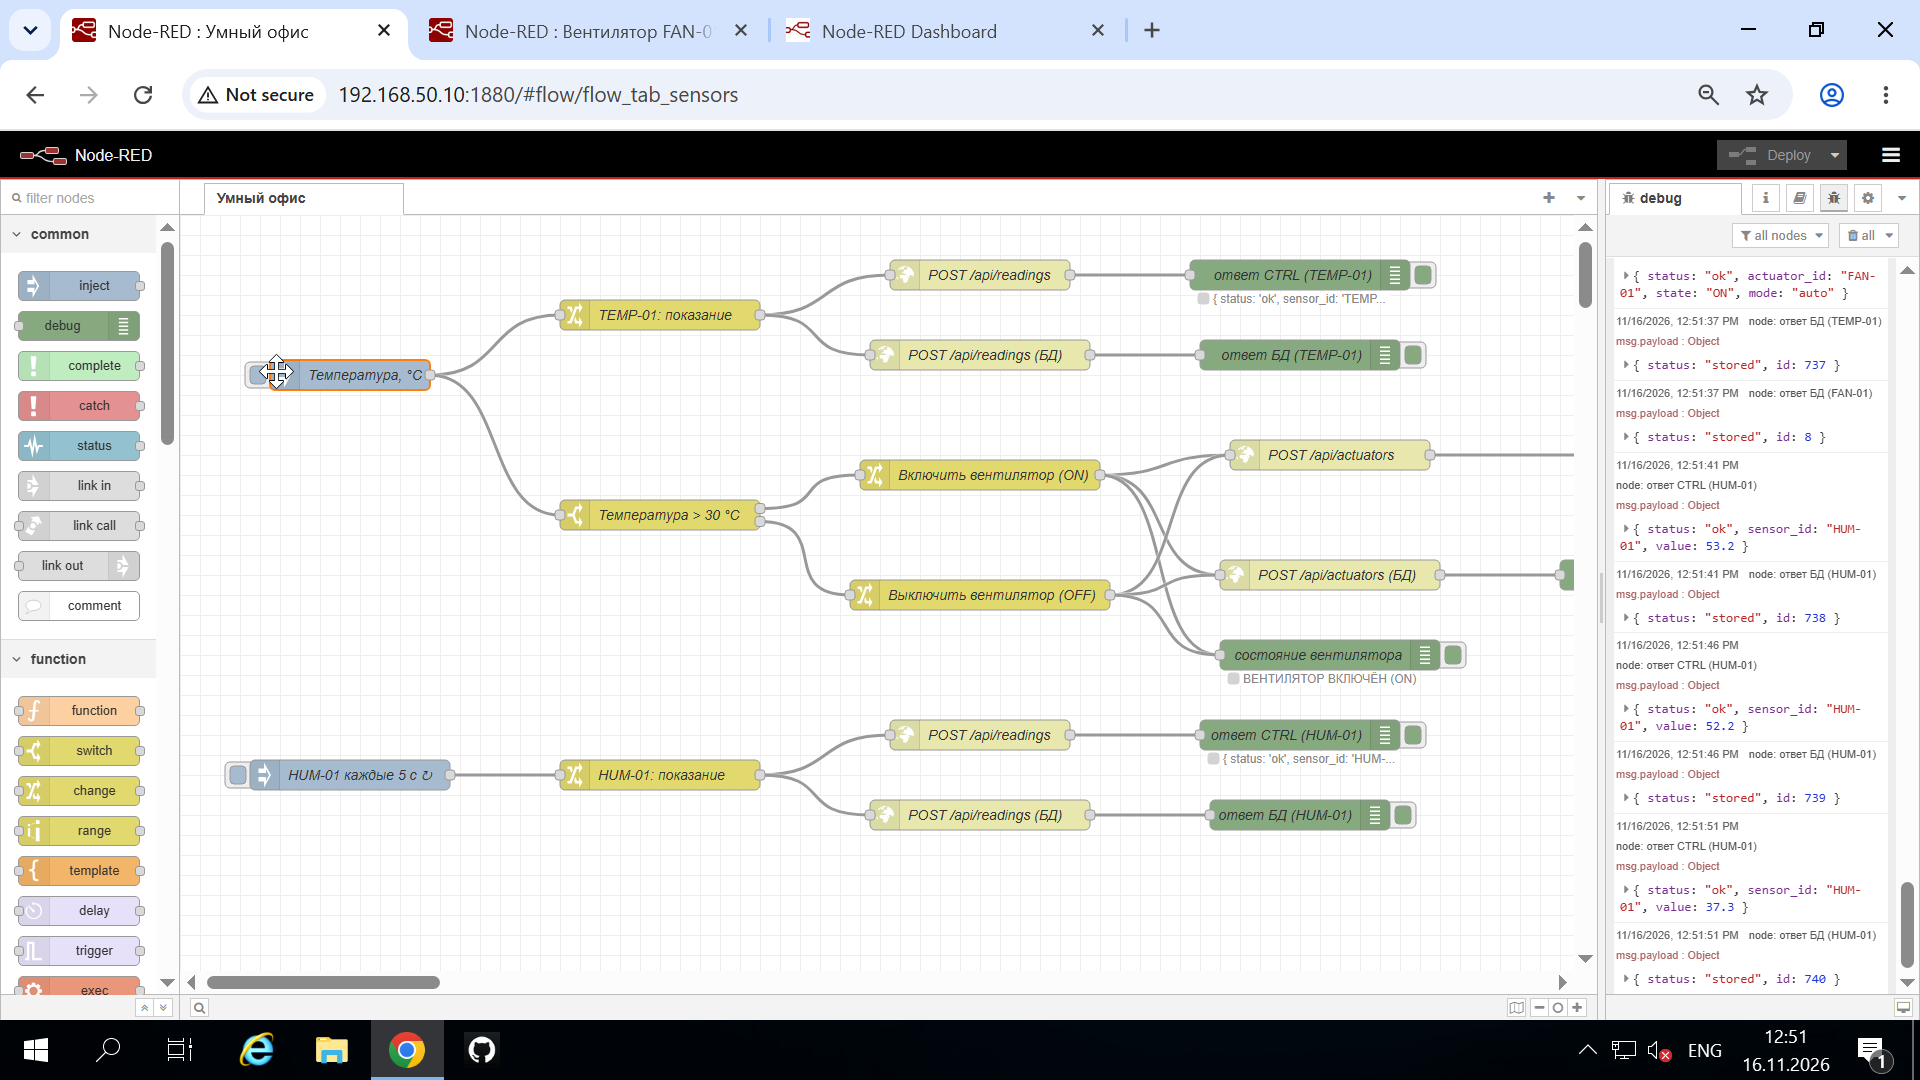
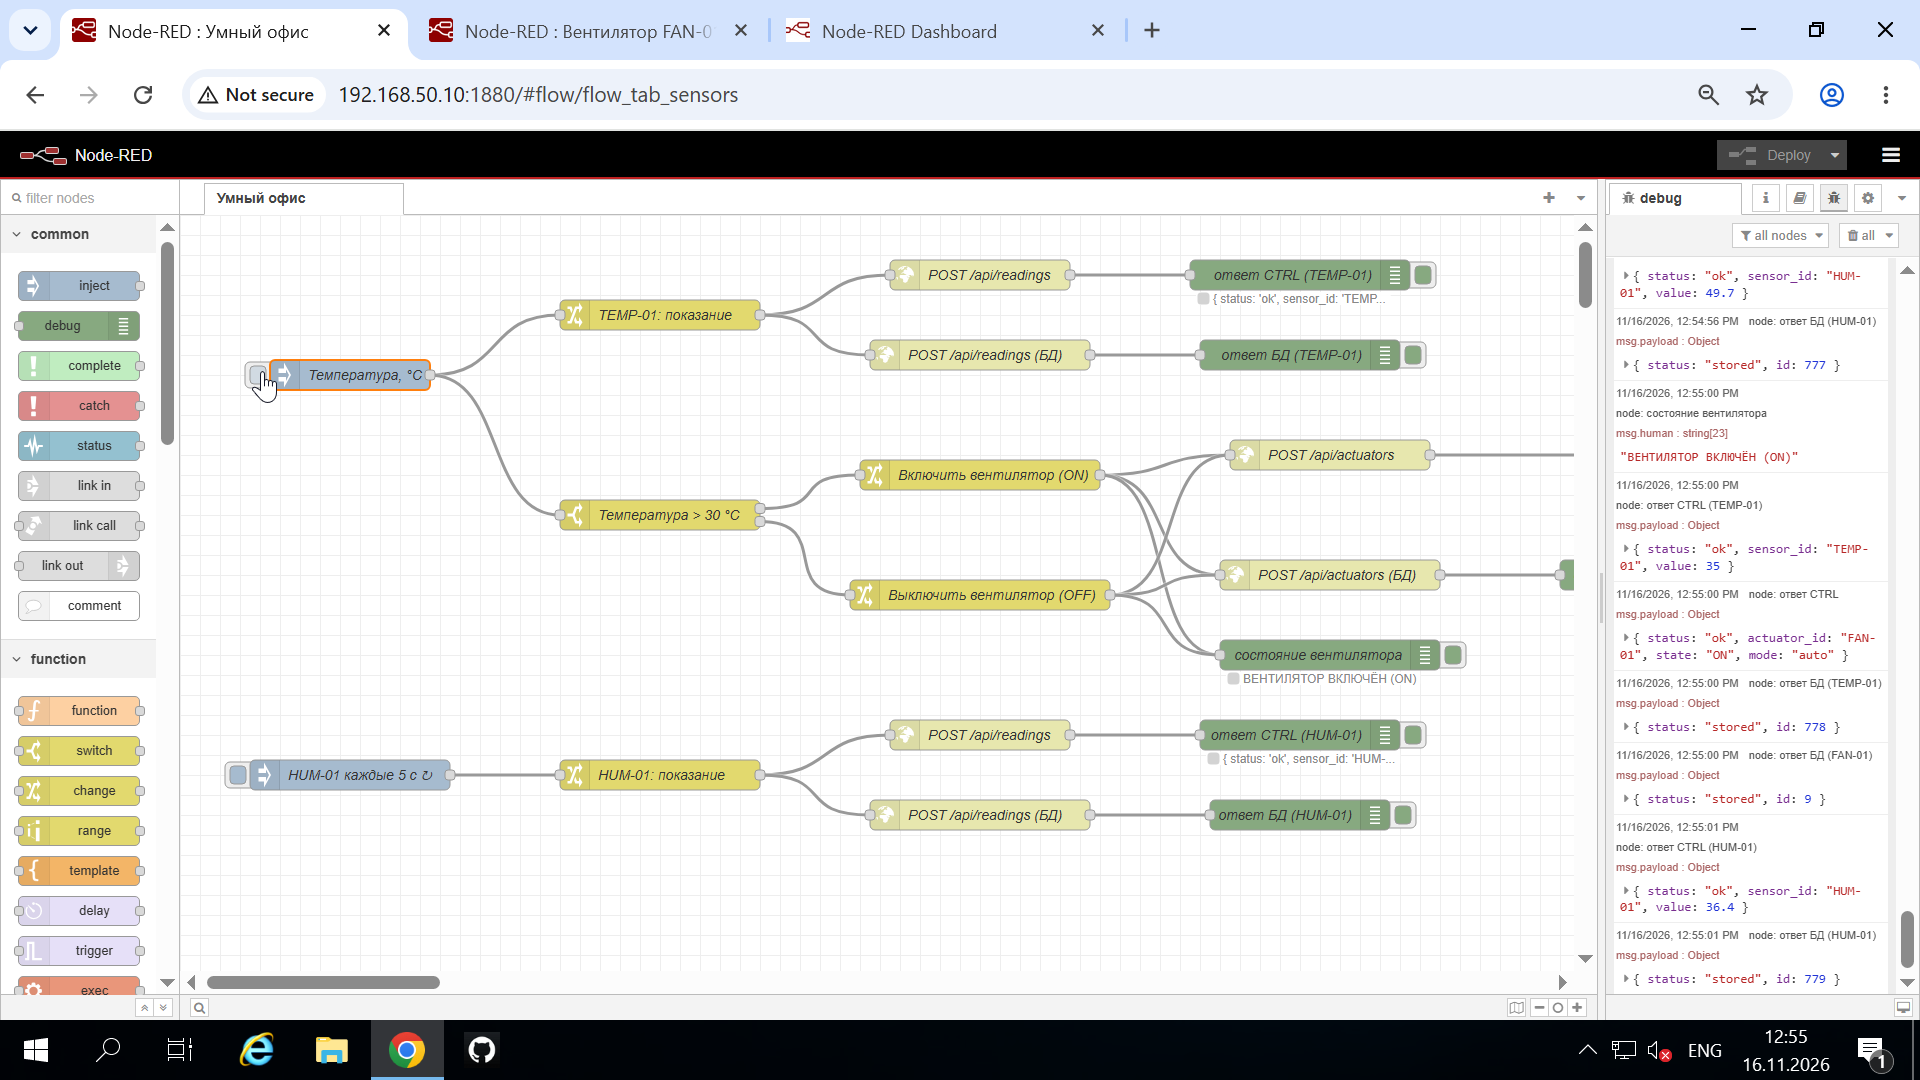
Доказательства ручного ввода температуры

diff --git a/journal.md b/journal.md
@@ -1,4 +1,4 @@
-# Журнал работ
+# Журнал работ
 
 ## 09.11.2026 (отчёт №1)
 
@@ -105,7 +105,7 @@
   с узлами `change` ON/OFF. Влажность HUM-01 осталась автоматической (каждые 5 с), чтобы в базе
   был непрерывный поток для графика.
 - **Как проверил:** ввод `25` дал `measurements` TEMP-01 = 25.0 и `actuator_events` OFF;
-  ввод `35` — TEMP-01 = 35.0 (id 737) и `actuator_events` ON (id 8); в debug одновременно видны
+  ввод `35` — TEMP-01 = 35.0 (id 778) и `actuator_events` ON (id 9); в debug одновременно видны
   ответы CTRL-01 (`{"status":"ok",…}`) и БД-01 (`{"status":"stored","id":…}`).
 - **Результат:** случайных показаний температуры больше нет — уходит ровно то число, которое
   ввели; обновлены `README.md`, `practice5/README.md`, `practice6/README.md`, доказательства
